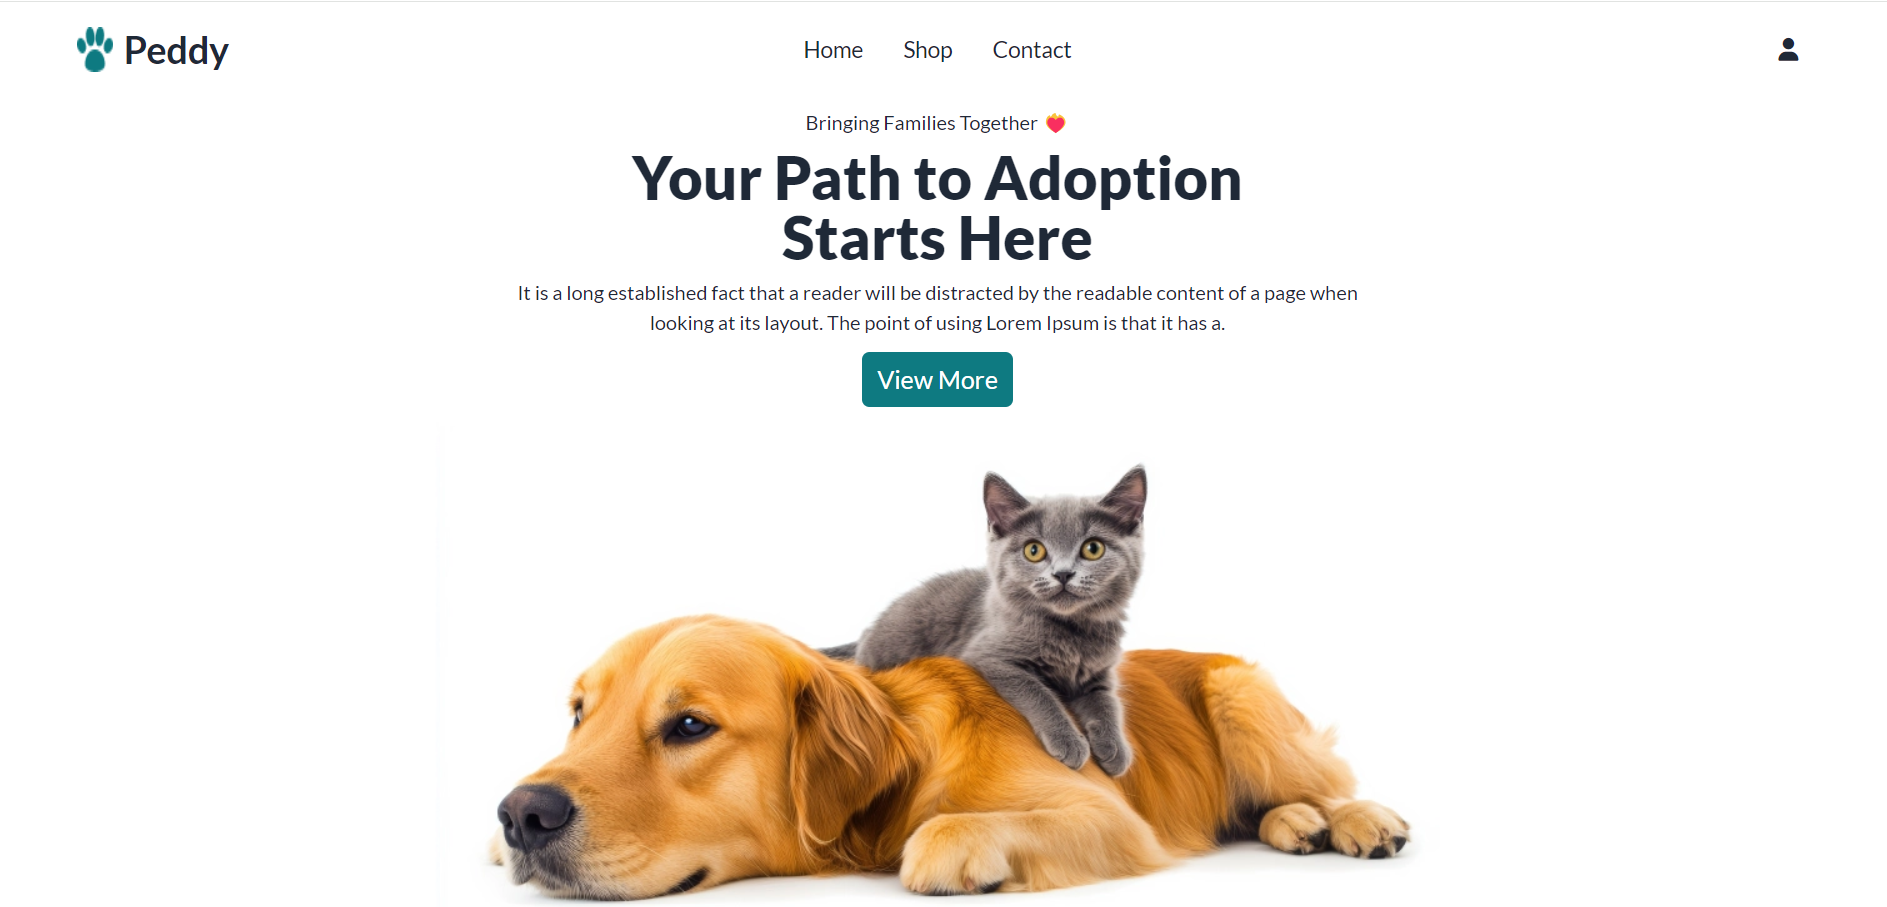
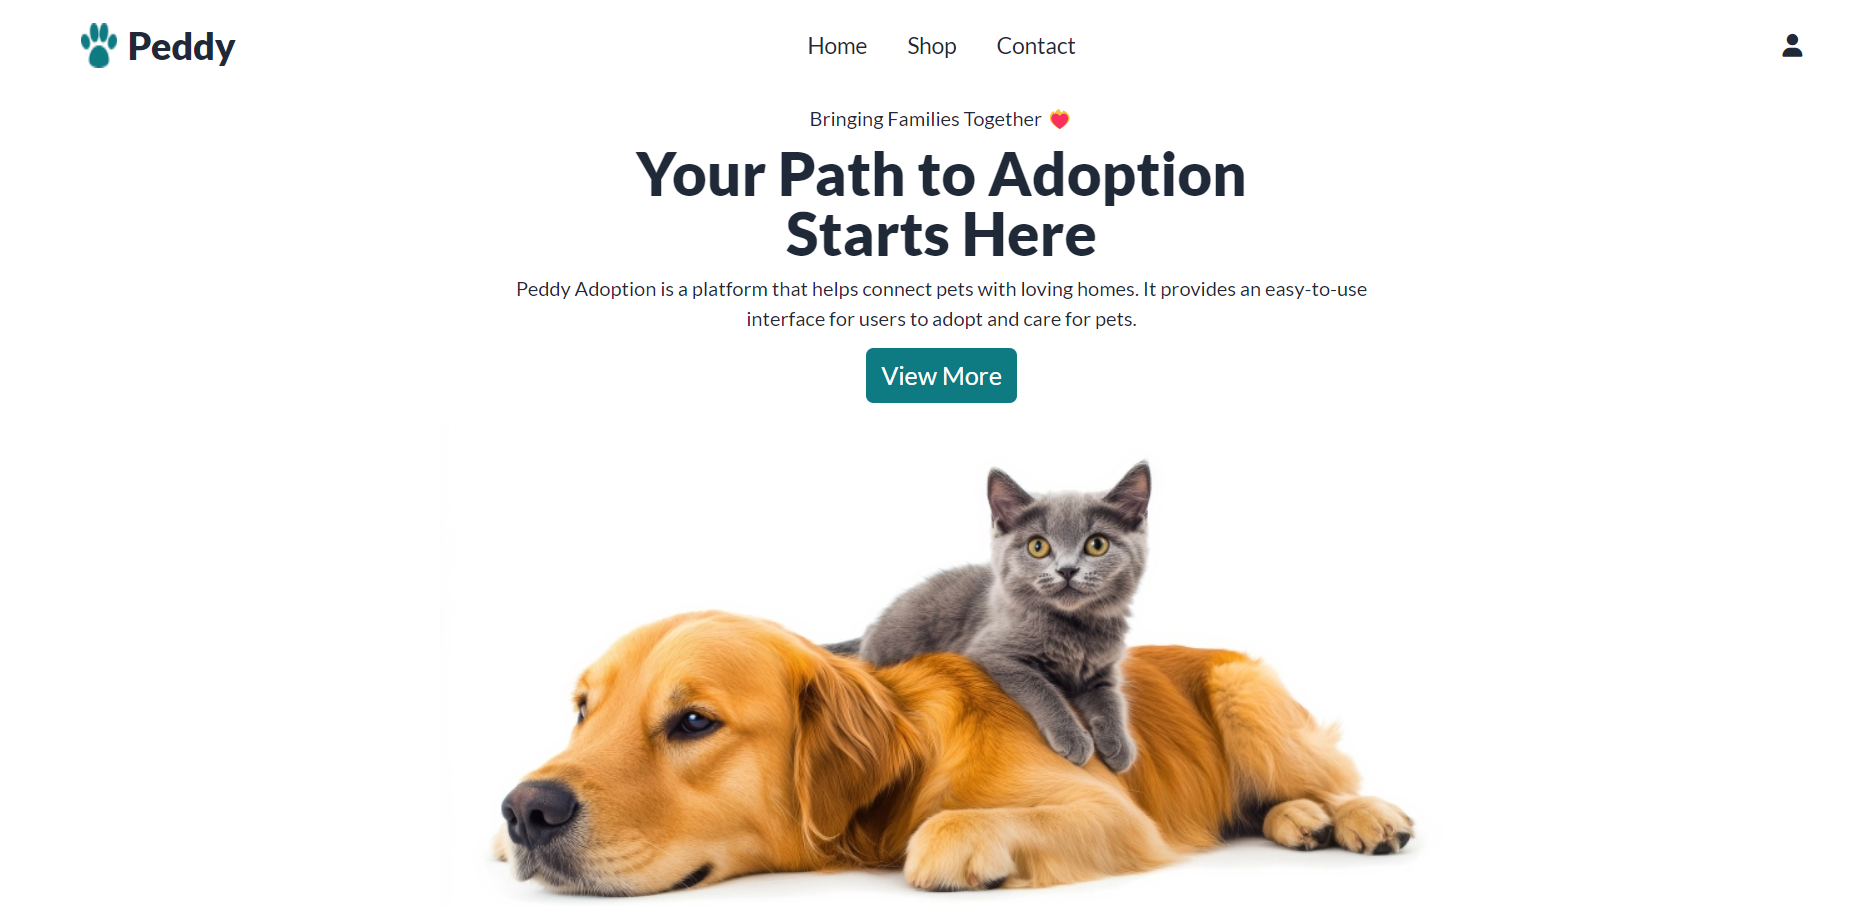
updated in short description

diff --git a/index.html b/index.html
@@ -114,10 +114,7 @@
             Here</h1>
 
         </div>
-        <p class="md:w-1/2 md:mx-auto">It is a long established fact that a
-          reader will be distracted by the readable content of a page when
-          looking at its layout. The point of using Lorem Ipsum is that it has
-          a.</p>
+        <p class="md:w-1/2 md:mx-auto">Peddy Adoption is a platform that helps connect pets with loving homes. It provides an easy-to-use interface for users to adopt and care for pets.</p>
         <a href="#viewMore" class="block pt-1"> <button
             class="px-3 py-2 bg-primary text-lg md:text-xl text-white rounded-md">View
             More</button>
@@ -131,10 +128,7 @@
         <div class="font-lato text-center space-y-3">
           <h1 class="font-extrabold  text-2xl md:text-3xl ">Adopt Your Best
             Friend</h1>
-          <p class="md:w-1/2 md:mx-auto">It is a long established fact that a
-            reader will be distracted by the readable content of a page when
-            looking at its layout. The point of using Lorem Ipsum is that it has
-            a.</p>
+          <p class="md:w-1/2 md:mx-auto">It connects loving homes with pets in need, offering a straightforward way to find and adopt your perfect furry companion.</p>
         </div>
         <div id="category-container"
           class="font-inter py-10 grid md:grid-cols-2 lg:grid-cols-4 gap-4">
